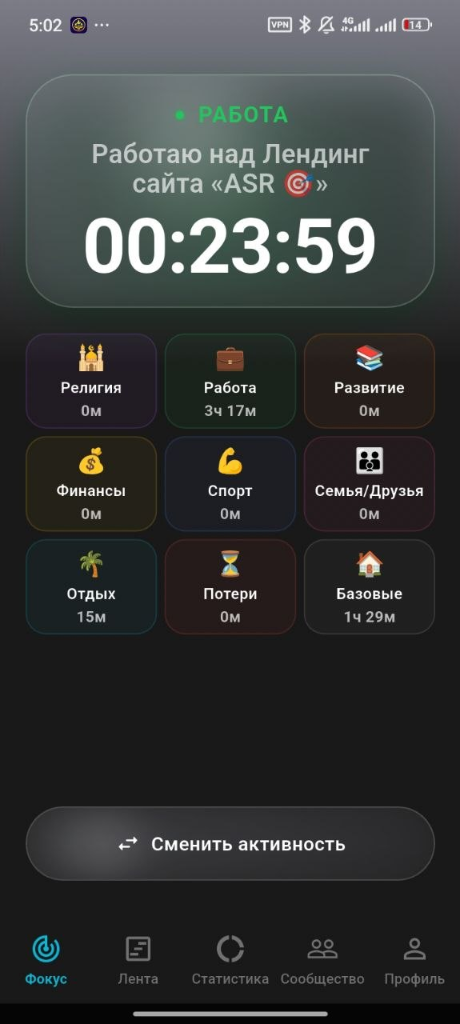
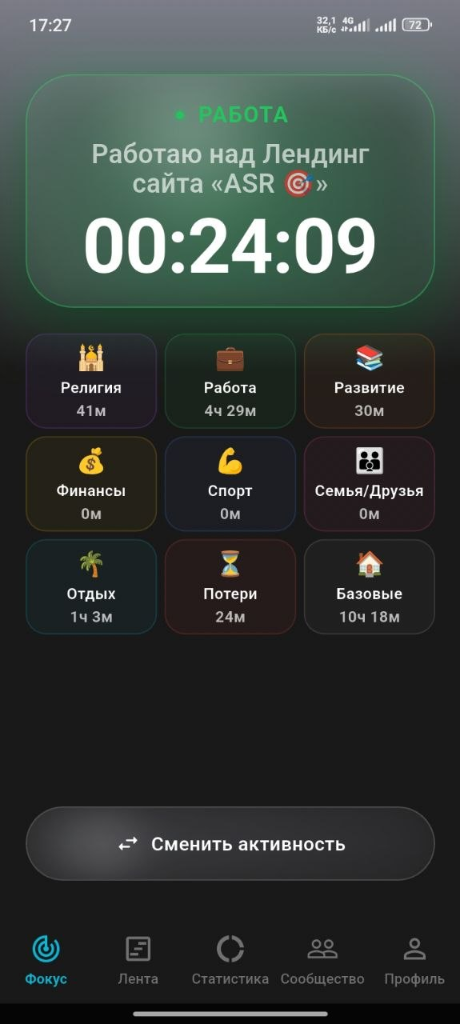
Add real Focus, Feed, and Stats screenshots with interactive screen switcher

diff --git a/js/main.js b/js/main.js
@@ -2,6 +2,14 @@
  * ASR Landing Page - Mindful & Clean Theme Logic
  */
 
+const screenImages = {
+  focus: "assets/images/real_screen_focus.png",
+  feed: "assets/images/real_screen_feed.png",
+  stats: "assets/images/real_screen_stats.png",
+};
+
+let currentScreen = 'focus';
+
 const translations = {
   en: {
     nav_philosophy: "Philosophy",
@@ -17,6 +25,10 @@ const translations = {
     hero_desc: "ASR is a calm, continuous time tracker created to bring balance and peace of mind to your daily routine. No complicated timers, no pressure — just an honest, gentle view of where your life flows.",
     hero_cta_download: "Download for iOS & Android",
     hero_cta_learn: "Discover How It Works",
+
+    tab_focus: "Focus",
+    tab_feed: "Timeline Feed",
+    tab_stats: "Statistics",
 
     stat_1_val: "Continuous",
     stat_1_lbl: "Effortless 24/7 Flow",
@@ -135,6 +147,10 @@ const translations = {
     hero_desc: "ASR — это спокойный, непрерывный трекер времени, созданный для внутренней гармонии и ясности. Без стресса, без кнопок «Стоп» — только честный и легкий взгляд на то, куда уходят ваши дни.",
     hero_cta_download: "Скачать для iOS и Android",
     hero_cta_learn: "Узнать философию ASR",
+
+    tab_focus: "Фокус",
+    tab_feed: "Лента дня",
+    tab_stats: "Статистика",
 
     stat_1_val: "Непрерывный",
     stat_1_lbl: "Плавный поток 24/7",
@@ -265,6 +281,28 @@ function setLanguage(lang) {
   });
 }
 
+function switchHeroScreen(screenId) {
+  currentScreen = screenId;
+  const phoneImg = document.getElementById('hero-phone-screen');
+  if (!phoneImg || !screenImages[screenId]) return;
+
+  phoneImg.style.opacity = '0.2';
+  setTimeout(() => {
+    phoneImg.src = screenImages[screenId];
+    phoneImg.style.opacity = '1';
+  }, 120);
+
+  document.querySelectorAll('.screen-tab-btn').forEach(btn => {
+    if (btn.dataset.screen === screenId) {
+      btn.classList.add('bg-slate-900', 'text-white', 'shadow-sm');
+      btn.classList.remove('text-slate-600', 'hover:text-slate-900');
+    } else {
+      btn.classList.remove('bg-slate-900', 'text-white', 'shadow-sm');
+      btn.classList.add('text-slate-600', 'hover:text-slate-900');
+    }
+  });
+}
+
 function setupFaqAccordion() {
   document.querySelectorAll('.faq-item').forEach(item => {
     const trigger = item.querySelector('.faq-trigger');
@@ -311,6 +349,12 @@ document.addEventListener('DOMContentLoaded', () => {
   document.querySelectorAll('.lang-btn').forEach(btn => {
     btn.addEventListener('click', () => {
       setLanguage(btn.dataset.lang);
+    });
+  });
+
+  document.querySelectorAll('.screen-tab-btn').forEach(btn => {
+    btn.addEventListener('click', () => {
+      switchHeroScreen(btn.dataset.screen);
     });
   });
 });

diff --git a/index.html b/index.html
@@ -208,16 +208,33 @@
           </div>
         </div>
 
-        <!-- Right Hero: Real Smartphone Screenshot in Full Glory -->
-        <div class="lg:col-span-5 flex justify-center items-center">
+        <!-- Right Hero: Real Smartphone Screenshot with Interactive Screen Switcher -->
+        <div class="lg:col-span-5 flex flex-col items-center justify-center space-y-4">
           <div class="device-frame-container">
             <div class="device-screen-wrapper">
               <img 
+                id="hero-phone-screen"
                 src="assets/images/real_screen_focus.png" 
-                alt="ASR Application Focus Screen" 
-                class="device-screen-img"
+                alt="ASR Application Real Screen" 
+                class="device-screen-img transition-opacity duration-200"
               />
             </div>
+          </div>
+
+          <!-- Interactive Screen Switcher Pills -->
+          <div class="flex items-center justify-center gap-1.5 p-1.5 rounded-2xl bg-white border border-slate-200 shadow-sm text-xs font-bold">
+            <button data-screen="focus" class="screen-tab-btn px-3.5 py-1.5 rounded-xl transition bg-slate-900 text-white shadow-sm flex items-center gap-1.5">
+              <span>⏱</span>
+              <span data-i18n="tab_focus">Фокус</span>
+            </button>
+            <button data-screen="feed" class="screen-tab-btn px-3.5 py-1.5 rounded-xl transition text-slate-600 hover:text-slate-900 flex items-center gap-1.5">
+              <span>📸</span>
+              <span data-i18n="tab_feed">Лента дня</span>
+            </button>
+            <button data-screen="stats" class="screen-tab-btn px-3.5 py-1.5 rounded-xl transition text-slate-600 hover:text-slate-900 flex items-center gap-1.5">
+              <span>📊</span>
+              <span data-i18n="tab_stats">Статистика</span>
+            </button>
           </div>
         </div>
 
